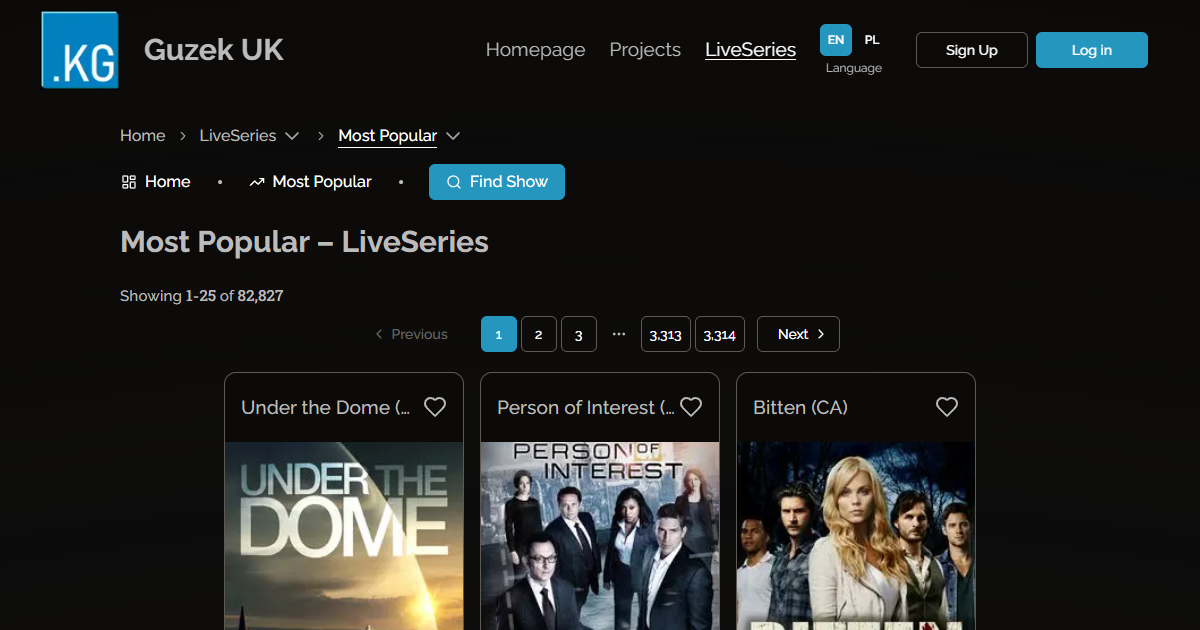
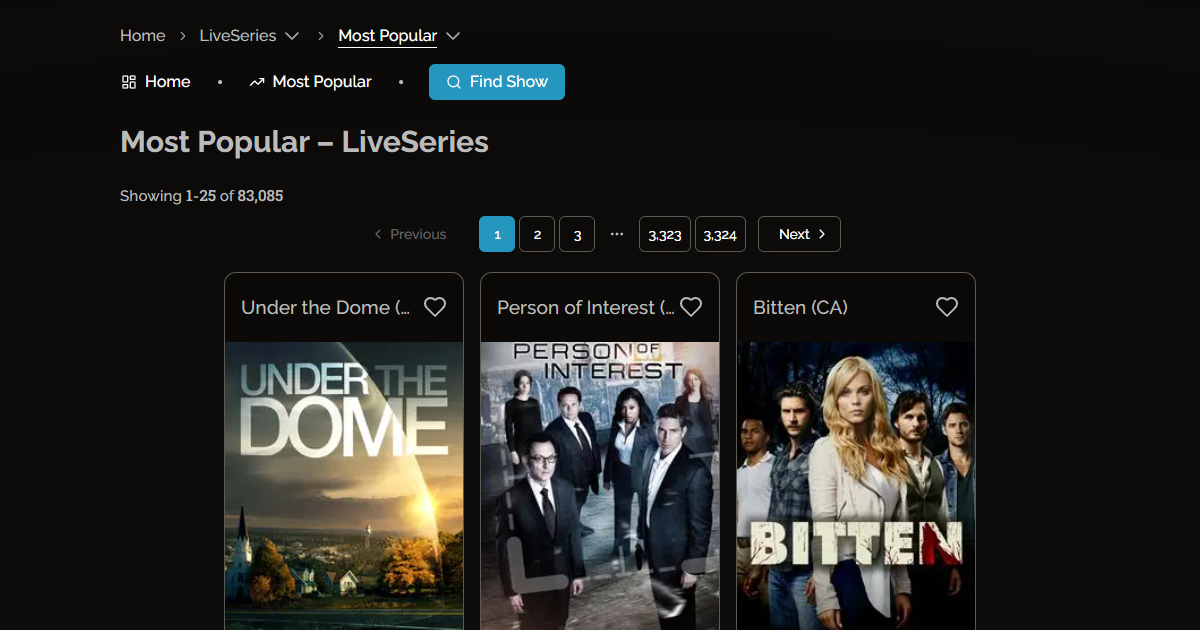
disable html word wrap, improve TV show SEO

diff --git a/src/app/(app)/liveseries/tv-show/[permalink]/page.tsx b/src/app/(app)/liveseries/tv-show/[permalink]/page.tsx
@@ -4,7 +4,9 @@ import { findShowById, getShowEpisodes } from "tvmaze-wrapper-ts";
 
 import { ErrorComponent } from "@/components/error/component";
 import { EpisodesList } from "@/components/liveseries/episodes-list";
+import { OG_IMAGE_SIZE } from "@/lib/constants";
 import { ErrorCode } from "@/lib/enums";
+import { convertHtmlToPlainText } from "@/lib/lexical";
 import { getAuth } from "@/lib/providers/auth-provider";
 import { getTranslations } from "@/lib/providers/translation-provider";
 import { isNumber } from "@/lib/util";
@@ -12,19 +14,42 @@ import { isNumber } from "@/lib/util";
 import { ShowDetails } from "./show-details";
 import { WatchedIndicator } from "./watched-indicator";
 
-interface Props {
+interface ShowDetailsProps {
   params: Promise<Record<string, string>>;
 }
 
 const isTvShow = (tvShow: unknown) =>
   typeof tvShow === "object" && tvShow != null && "id" in tvShow && "summary" in tvShow;
 
-export async function generateMetadata({ params }: Props) {
+export async function generateMetadata(props: ShowDetailsProps): Promise<Metadata> {
   const { data } = await getTranslations();
-  const show = await getShowDetails(params);
+  const show = await getShowDetails(props);
+  if (!show) {
+    return {
+      title: data.liveSeries.tvShow.showDetails,
+    };
+  }
   return {
-    title: show?.name || data.liveSeries.tvShow.showDetails,
-  } satisfies Metadata;
+    title: show.name || data.liveSeries.tvShow.showDetails,
+    description: show.summary ? convertHtmlToPlainText(show.summary) : undefined,
+    keywords: [
+      show.name,
+      ...show.genres,
+      "LiveSeries",
+      "TV Show",
+      "watch",
+      "stream",
+      "summary",
+      "episodes",
+      "seasons",
+    ],
+    openGraph: {
+      images: {
+        url: `/api/og-image/liveseries/tv-show/${show.id}`,
+        ...OG_IMAGE_SIZE,
+      },
+    },
+  };
 }
 
 function sortEpisodes(episodes: TvMazeEpisode[]) {
@@ -40,7 +65,7 @@ function sortEpisodes(episodes: TvMazeEpisode[]) {
   return Object.entries(seasons) as [`${number}`, TvMazeEpisode[]][];
 }
 
-async function getShowDetails(params: Props["params"]) {
+async function getShowDetails({ params }: ShowDetailsProps) {
   const { permalink } = await params;
   if (!isNumber(permalink)) {
     console.warn("Invalid tv show permalink:", permalink);
@@ -54,10 +79,10 @@ async function getShowDetails(params: Props["params"]) {
   return tvShow;
 }
 
-export default async function TvShow({ params }: Props) {
+export default async function TvShow(props: ShowDetailsProps) {
   const { data, userLanguage } = await getTranslations();
   const { user } = await getAuth();
-  const tvShow = await getShowDetails(params);
+  const tvShow = await getShowDetails(props);
   if (tvShow == null) {
     return <ErrorComponent errorCode={ErrorCode.NotFound} />;
   }

diff --git a/src/app/(app)/api/og-image/[...slug]/route.ts b/src/app/(app)/api/og-image/[...slug]/route.ts
@@ -6,7 +6,7 @@ import puppeteer from "puppeteer";
 
 import type { CustomMiddleware } from "@/lib/types";
 import type { Media } from "@/payload-types";
-import { OG_IMAGE_SIZE, PRODUCTION_URL } from "@/lib/constants";
+import { NAV_BAR_HEIGHT_DESKTOP, OG_IMAGE_SIZE, PRODUCTION_URL } from "@/lib/constants";
 import { rateLimitMiddleware } from "@/middleware/ratelimit-middleware";
 
 export const revalidate = 86400;
@@ -15,18 +15,22 @@ const PUPPETEER_EXECUTABLE_PATH = process.env.PUPPETEER_EXECUTABLE_PATH;
 const OG_IMAGE_VALIDITY_PERIOD = revalidate * 1000;
 
 async function generateScreenshot(path: string) {
-  console.info("Generating screenshot for", path, "with Puppeteer");
+  console.info("Generating screenshot for", path, "with Puppeteer...");
   const browser = await puppeteer.launch({ executablePath: PUPPETEER_EXECUTABLE_PATH });
   const page = await browser.newPage();
-  await page.setViewport(OG_IMAGE_SIZE);
-
+  await page.setViewport({
+    width: OG_IMAGE_SIZE.width,
+    height: OG_IMAGE_SIZE.height + NAV_BAR_HEIGHT_DESKTOP,
+  });
   await page.goto(`${PRODUCTION_URL}${path}`, {
     waitUntil: "networkidle0",
     timeout: 120000,
   });
-  const screenshot = await page.screenshot({ type: "png" });
+  const screenshot = await page.screenshot({
+    type: "png",
+    clip: { ...OG_IMAGE_SIZE, x: 0, y: NAV_BAR_HEIGHT_DESKTOP },
+  });
   await browser.close();
-
   return screenshot;
 }
 
@@ -82,12 +86,19 @@ async function tryGenerateScreenshot(
         data: { slug: path, image: createdMedia.id },
       });
     } else {
-      console.info("Updating media record", existingMedia.id, "with OG image for", path);
+      console.info(
+        "Updating media record",
+        existingMedia.id,
+        "with OG image for",
+        path,
+        "& filename",
+        file.name,
+      );
       await payload.update({
         collection: "media",
         id: existingMedia.id,
         data: {
-          filename: file.name,
+          filename: existingMedia.filename || file.name,
         },
         file,
       });

diff --git a/src/lib/lexical.ts b/src/lib/lexical.ts
@@ -31,7 +31,7 @@ const SELECTORS = ["h1", "h2", "h3", "h4", "h5", "h6"] as const;
 
 export async function convertLexicalToPlainText(
   editorStateJSON: SerializedEditorState,
-  wordWrap = 150,
+  wordWrap: HtmlToTextOptions["wordwrap"] = false,
 ) {
   const payload = await getPayload({ config });
   const editorConfig = defaultEditorConfig;
@@ -47,6 +47,13 @@ export async function convertLexicalToPlainText(
     converters: consolidateHTMLConverters({ editorConfig: sanitizedEditorConfig }),
     payload,
   });
+  return convertHtmlToPlainText(html, wordWrap);
+}
+
+export function convertHtmlToPlainText(
+  html: string,
+  wordWrap: HtmlToTextOptions["wordwrap"] = false,
+) {
   const options: HtmlToTextOptions = {
     wordwrap: wordWrap,
     formatters: Object.fromEntries(

diff --git a/src/lib/translations/polish.ts b/src/lib/translations/polish.ts
@@ -144,6 +144,9 @@ export const POLISH: Translation = {
   },
   liveSeries: {
     title: "LiveSeries",
+    seoTitle: "LiveSeries – Śledzenie Seriali i Serwis Streamowania Torrentów",
+    description:
+      "Serwis do śledzenia seriali i streamowania torrentów. Oglądaj odcinki seriali w czasie rzeczywistym, sprawdzaj oceny i więcej. Znajdź swoje ulubione seriale i bądź na bieżąco za pomocą usługi automatycznego pobierania odcinków.",
     whatsThis: "Co to?",
     explanation:
       "Aby móc wyszukiwać i pobierać torrenty seriali, musisz skonfigurować serwer LiveSeries. Serwer ten będzie używany do pobierania torrentów i przesyłania do przeglądarki filmów.",

diff --git a/src/lib/translations/english.ts b/src/lib/translations/english.ts
@@ -143,6 +143,9 @@ export const ENGLISH: Translation = {
   },
   liveSeries: {
     title: "LiveSeries",
+    seoTitle: "LiveSeries – TV Show Tracker & Torrent Streaming Service",
+    description:
+      "A TV show tracking & torrent streaming service. Real-time TV show episodes, ratings, and more. Find your favourite TV shows and stay up-to-date by subscribing to automatic episode downloads.",
     whatsThis: "What's this?",
     explanation:
       "In order to search for and download TV show torrents, you must set up a LiveSeries server. This server will be used to fetch torrent files and stream video content.",

diff --git a/src/app/(app)/liveseries/layout.tsx b/src/app/(app)/liveseries/layout.tsx
@@ -18,8 +18,12 @@ export async function generateMetadata(): Promise<Metadata> {
       template: `${getTitle("%s", data.liveSeries.title)} | ${PAGE_NAME}`,
       default: "LiveSeries",
     },
+    description: data.liveSeries.description,
     openGraph: {
-      images: { url: "/api/og-image/liveseries/most-popular/1", ...OG_IMAGE_SIZE },
+      images: {
+        url: "/api/og-image/liveseries/most-popular/1",
+        ...OG_IMAGE_SIZE,
+      },
     },
   };
 }

diff --git a/src/app/(app)/liveseries/page.tsx b/src/app/(app)/liveseries/page.tsx
@@ -22,7 +22,9 @@ import { cn } from "@/lib/utils";
 export async function generateMetadata(): Promise<Metadata> {
   const { data } = await getTranslations();
   return {
-    title: getTitle(data.liveSeries.home.title, data.liveSeries.title),
+    title: {
+      absolute: `${data.liveSeries.seoTitle} | Konrad Guzek`,
+    },
     openGraph: {
       images: {
         url: "/api/og-image/liveseries/most-popular/1",

diff --git a/src/lib/constants.ts b/src/lib/constants.ts
@@ -34,3 +34,5 @@ export const LIVESERIES_SERVER_HOMEPAGE =
 export const CAROUSEL_INDICATOR_FULL_WIDTH = 140;
 
 export const OG_IMAGE_SIZE = { width: 1200, height: 630 };
+export const NAV_BAR_HEIGHT_DESKTOP = 100;
+export const NAV_BAR_HEIGHT_MOBILE = 80;

diff --git a/src/lib/translations/index.ts b/src/lib/translations/index.ts
@@ -116,6 +116,8 @@ export type Translation = Readonly<{
   };
   liveSeries: {
     title: string;
+    seoTitle: string;
+    description: string;
     whatsThis: string;
     explanation: string;
     cta: string;

diff --git a/src/app/(app)/layout.tsx b/src/app/(app)/layout.tsx
@@ -62,9 +62,6 @@ export const metadata: Metadata = {
       ...OG_IMAGE_SIZE,
     },
   },
-  twitter: {
-    images: "/api/og-image",
-  },
 };
 
 export const viewport: Viewport = {
